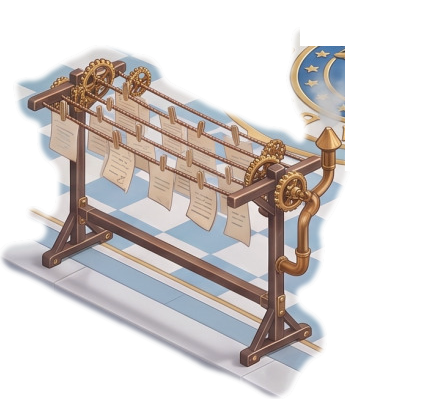
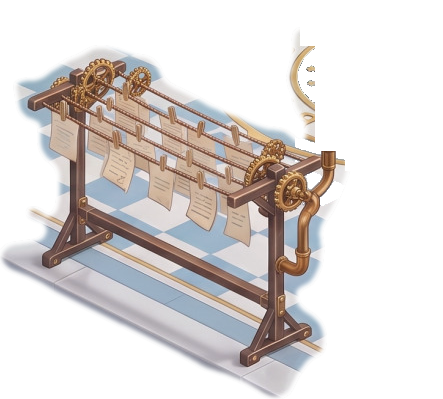
Fully clean hospital rack2 junk and trim observatory Charts 3 glow
Hospital: color-clean the blue+gold floor-medallion fragment still fused to
lay_R2.png's crank area so mend2 + rack2 no longer show floating junk.
Observatory: trim lay_H3.png's upper holographic swirl — it sat over the
back-left couch (charts draws after couch) and washed it out; the glowing glass
table remains. sw -> v24.

Changed region(s): [[0.6749, 0.0902, 0.7923, 0.4211], [0.6749, 0.4211, 0.7923, 0.5113]]

diff --git a/sw.js b/sw.js
@@ -1,6 +1,6 @@
 // Cloud Couriers service worker — network-first with cache fallback.
 // Fresh files whenever online (no stale-module version skew), full offline play otherwise.
-const VERSION = 'cloud-couriers-v23';
+const VERSION = 'cloud-couriers-v24';
 const CORE = [
   '.', 'index.html',
   'css/font.css', 'css/styles.css',